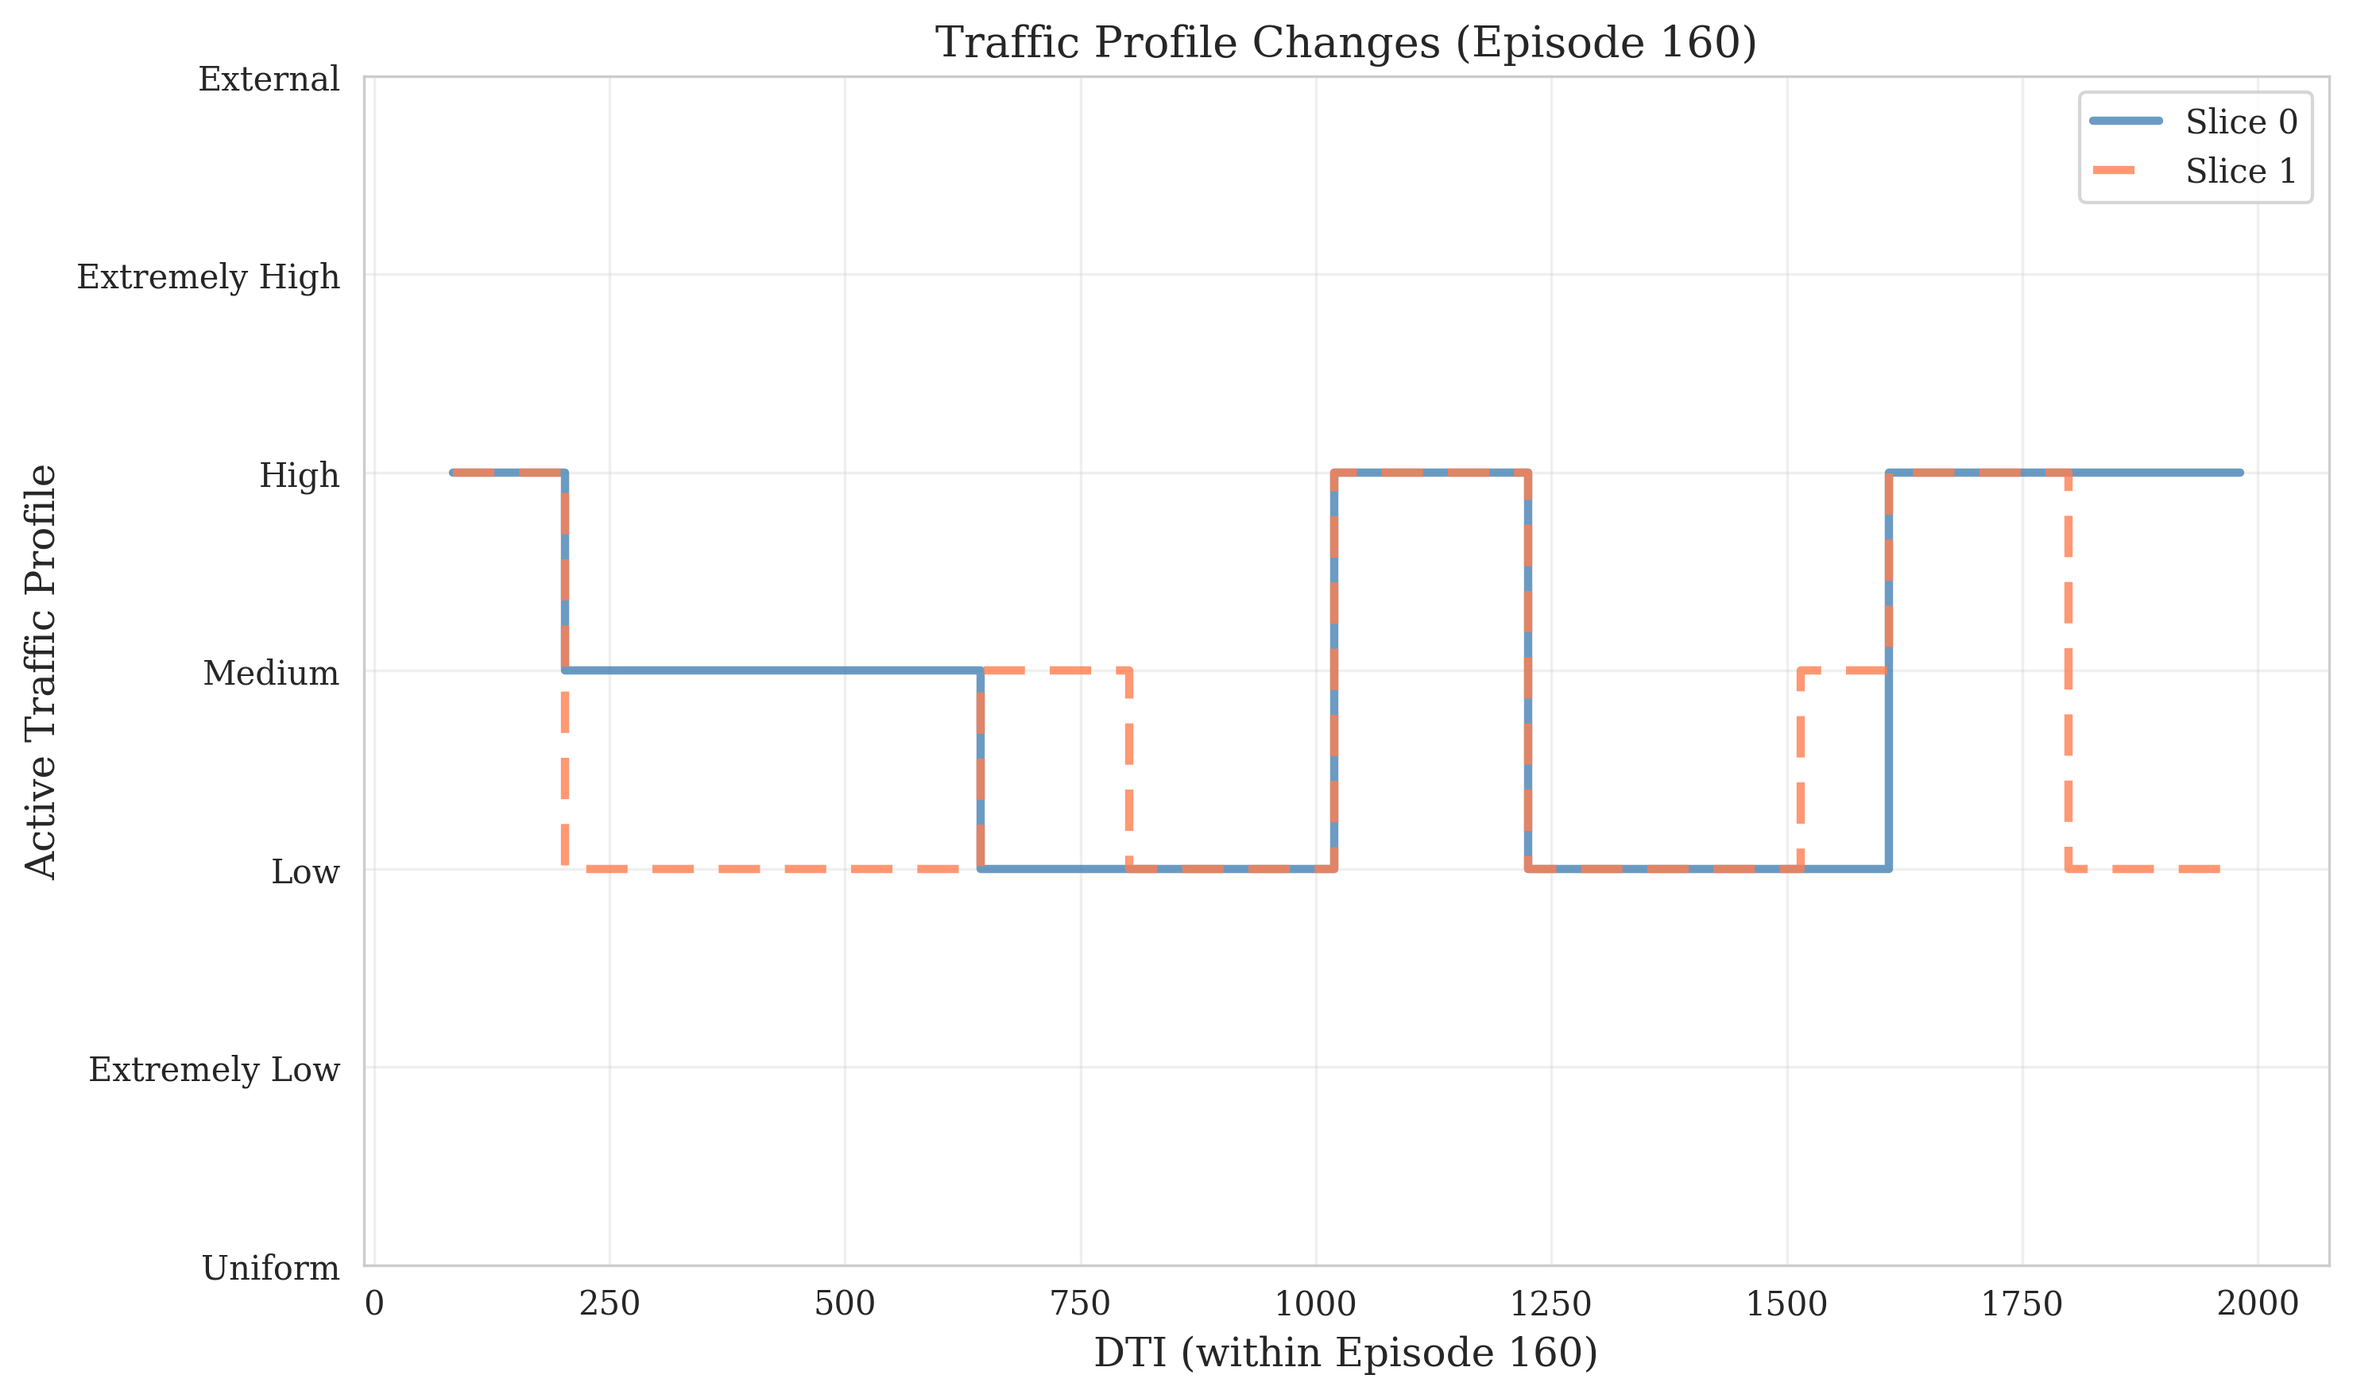
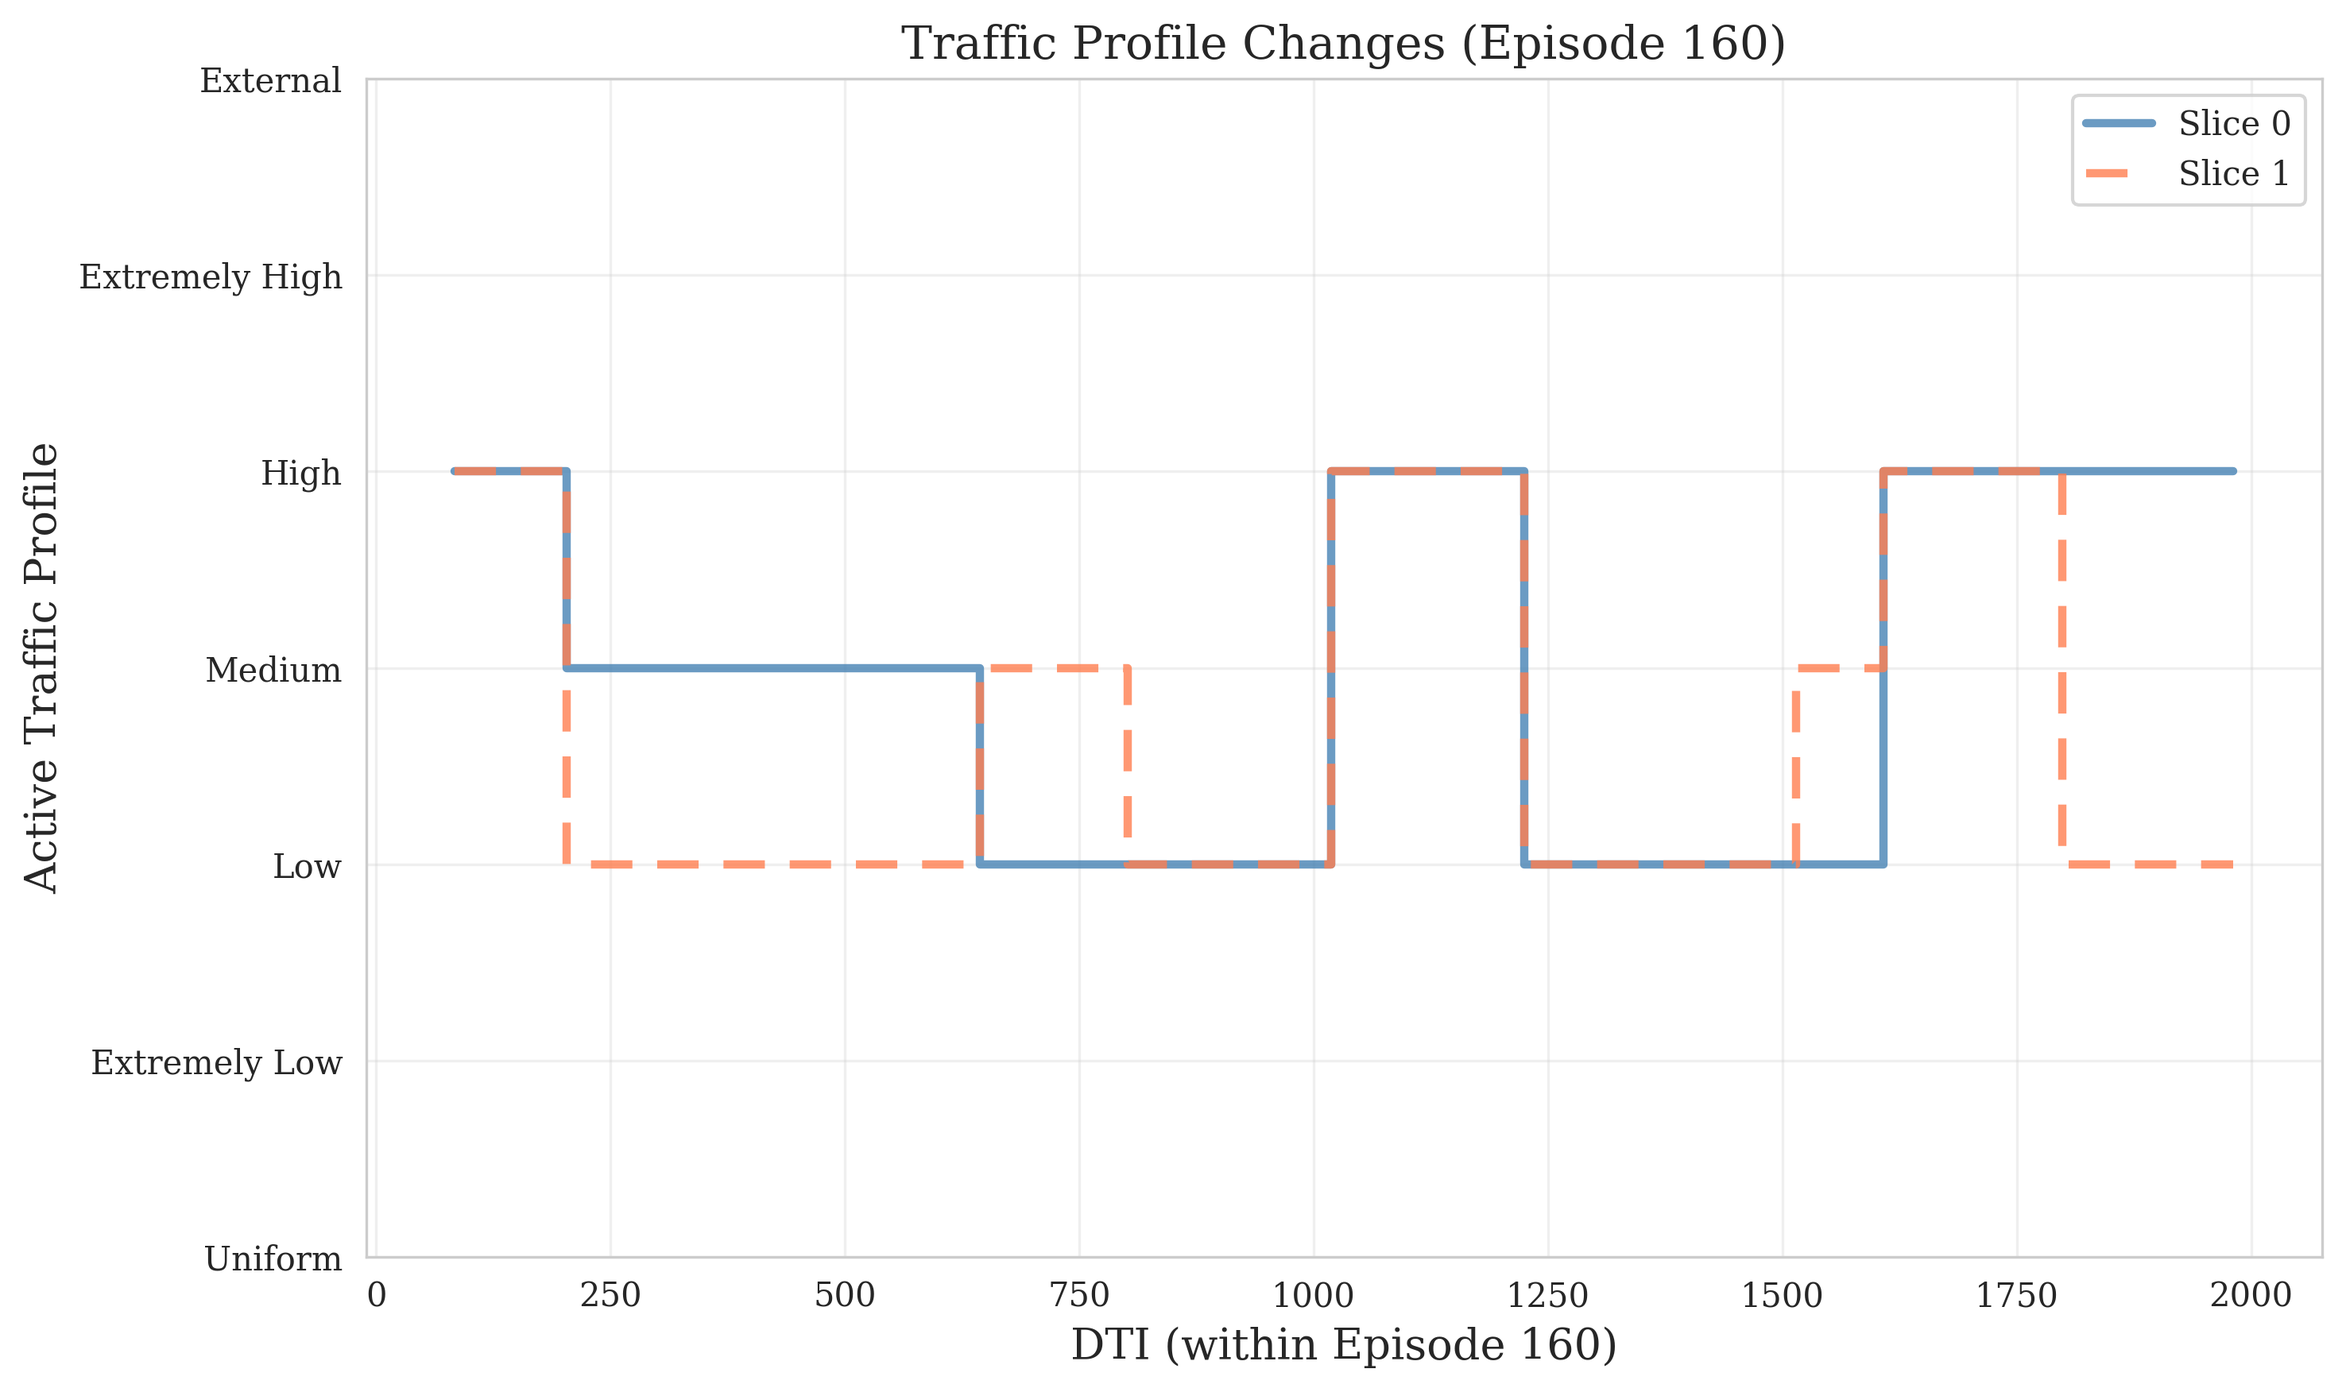
ver2.6

diff --git a/sac_agent_old.py b/sac_agent_old.py
@@ -1,8 +1,6 @@
 """
 SAC Implementation for Multi-Slice Resource Allocation - Implements Algorithm 2
 Soft Actor-Critic with constrained action space using softmax parameterization
-
-UPDATED: Added proper entropy regularization and automatic temperature tuning
 """
 
 import numpy as np
@@ -86,23 +84,6 @@ class Actor(nn.Module):
         action = self.capacity * F.softmax(z, dim=-1)
         
         return action
-    
-    def forward_with_logits(self, state):
-        """
-        Forward pass returning both action and logits.
-        Used for entropy computation.
-        
-        Returns:
-            action: [a_1, ..., a_K] where Σa_k = C
-            logits: [z_1, ..., z_K] raw logits before softmax
-        """
-        x = self.shared(state)
-        z = self.logits(x)  # Logits ∈ R^K
-        
-        # Apply softmax and scale by capacity
-        action = self.capacity * F.softmax(z, dim=-1)
-        
-        return action, z
     
     def sample_action(self, state):
         """Sample action for training (adds exploration noise)"""
@@ -232,7 +213,7 @@ class SAC:
         self.critic1_optimizer = optim.Adam(self.critic1.parameters(), lr=lr_critic)
         self.critic2_optimizer = optim.Adam(self.critic2.parameters(), lr=lr_critic)
         
-        # Temperature (entropy regularization) - NOW PROPERLY USED
+        # Temperature (entropy regularization)
         self.log_alpha = torch.tensor(np.log(alpha), dtype=torch.float32,
                                      requires_grad=True, device=self.device)
         self.alpha_optimizer = optim.Adam([self.log_alpha], lr=lr_alpha)
@@ -342,57 +323,30 @@ class SAC:
         critic2_loss.backward()
         self.critic2_optimizer.step()
         
-        # ============ Update Actor (WITH ENTROPY) ============
-        # Get new actions AND logits for entropy computation
-        new_actor_output_full = self.actor.forward_with_logits(states)
+        # ============ Update Actor ============
+        # Sample new actions from current policy
+        new_actor_output = self.actor(states)  # Shape: (batch, K) or (batch, K+1)
         
         if self.use_efficient_allocation:
-            # Unpack: (action, logits) where action is (batch, K+1)
-            new_actor_output, logits = new_actor_output_full
             # Extract first K actions for critics
             new_actions = new_actor_output[:, :self.num_slices]
         else:
-            # Unpack: (action, logits) where action is (batch, K)
-            new_actions, logits = new_actor_output_full
+            # Standard mode
+            new_actions = new_actor_output
         
         # Compute Q-values
         q1_new = self.critic1(states, new_actions)
         q2_new = self.critic2(states, new_actions)
         q_new = torch.min(q1_new, q2_new)
         
-        # Compute entropy of softmax distribution
-        # H(π) = -Σ p_i log(p_i) where p = softmax(z)
-        probs = F.softmax(logits, dim=-1)
-        log_probs = F.log_softmax(logits, dim=-1)
-        entropy = -(probs * log_probs).sum(dim=-1, keepdim=True)
-        
-        # Actor loss: maximize Q + α·H(π)
-        # Equivalently: minimize -(Q + α·H)
-        actor_loss = -(q_new + self.alpha * entropy).mean()
+        # Actor loss: maximize Q
+        # (negative because we're minimizing)
+        actor_loss = -q_new.mean()
         
         # Update actor
         self.actor_optimizer.zero_grad()
         actor_loss.backward()
         self.actor_optimizer.step()
-        
-        # ============ Update Temperature (Alpha) ============
-        # Automatic temperature tuning
-        with torch.no_grad():
-            # Recompute entropy for alpha update (detach from actor graph)
-            if self.use_efficient_allocation:
-                _, logits_detached = self.actor.forward_with_logits(states)
-            else:
-                _, logits_detached = self.actor.forward_with_logits(states)
-            
-            probs_detached = F.softmax(logits_detached, dim=-1)
-            log_probs_detached = F.log_softmax(logits_detached, dim=-1)
-            entropy_detached = -(probs_detached * log_probs_detached).sum(dim=-1, keepdim=True)
-        
-        alpha_loss = -(self.log_alpha * (entropy_detached + self.target_entropy)).mean()
-        
-        self.alpha_optimizer.zero_grad()
-        alpha_loss.backward()
-        self.alpha_optimizer.step()
         
         # ============ Soft Update Targets ============
         self._soft_update(self.critic1, self.critic1_target)
@@ -405,9 +359,6 @@ class SAC:
             'critic2_loss': critic2_loss.item(),
             'actor_loss': actor_loss.item(),
             'alpha': self.alpha,
-            'alpha_loss': alpha_loss.item(),
-            'entropy': entropy.mean().item(),
-            'target_entropy': self.target_entropy,
             'q_value': q_new.mean().item(),
         }
     

diff --git a/network_env_multi_metric.py b/network_env_multi_metric.py
@@ -412,6 +412,62 @@ class NetworkEnvironment:
         state = self._build_state(beta, cdfs, transport_utilization, transport_delays)
         return state
     
+    def _allocate_resources(self, action: np.ndarray) -> np.ndarray:
+        """
+        Allocate discrete resources ensuring sum exactly equals capacity C.
+        
+        Uses Floor + Remainder Distribution:
+        1. Floor all continuous actions
+        2. Calculate remaining capacity  
+        3. Distribute remainder to slices with largest fractional parts
+        
+        Guarantees: sum(allocated) = C for any K
+        
+        Args:
+            action: Continuous action [a_1, ..., a_K] where sum(action) ≈ C
+                    (from softmax: action = C * softmax(z))
+        
+        Returns:
+            allocated: Integer allocation [r_1, ..., r_K] where sum = C exactly
+        
+        Example:
+            action = [4.7, 3.3]  # K=2, C=8
+            floor = [4, 3]       # sum = 7
+            remainder = 1
+            fractional = [0.7, 0.3]  # Slice 0 has larger fractional
+            → Give remainder to slice 0
+            → result = [5, 3] (sum = 8) ✓
+        """
+        # Step 1: Floor all allocations
+        allocated = np.floor(action).astype(int)
+        
+        # Step 2: Calculate remainder
+        remainder = self.C - np.sum(allocated)
+        
+        # Sanity check
+        assert 0 <= remainder <= self.K, \
+            f"Invalid remainder {remainder}. Action sum: {np.sum(action):.6f}, C: {self.C}"
+        
+        # Step 3: Distribute remainder to slices with largest fractional parts
+        if remainder > 0:
+            # Calculate fractional parts
+            fractional = action - allocated
+            
+            # Get indices sorted by fractional part (descending order)
+            indices_sorted = np.argsort(-fractional)
+            
+            # Give 1 RB to the top 'remainder' slices
+            for i in range(remainder):
+                allocated[indices_sorted[i]] += 1
+        
+        # Step 4: Final verification
+        final_sum = np.sum(allocated)
+        assert final_sum == self.C, \
+            f"Allocation failed! Sum={final_sum}, C={self.C}, allocated={allocated}"
+        
+        return allocated
+
+
     def step(self, action: np.ndarray) -> Tuple[np.ndarray, float, bool, dict]:
         """
         Algorithm 1: Step(a) function
@@ -444,8 +500,11 @@ class NetworkEnvironment:
             self.X[k].extend(x_k)
         
         # Step 2: Compute QoS using rounded actions (MULTI-METRIC SUPPORT)
-        r_used = np.round(action).astype(int)
+        #r_used = np.round(action).astype(int)
         
+        # Step 2: Compute QoS using floor+remainder allocation (MULTI-METRIC SUPPORT)
+        r_used = self._allocate_resources(action)
+
         for k in range(self.K):
             #rbs = int(np.clip(r_used[k], 1, self.C))
             rbs = int(np.clip(r_used[k], 1, 8)) #Jubran

diff --git a/paper_figures/summary_table.tex b/paper_figures/summary_table.tex
@@ -6,15 +6,15 @@
 \toprule
 \textbf{Scenario} & \textbf{QoS Violation (β)} & \textbf{Episode Reward} \\
 \midrule
-Extremely_Low - Extremely_Low & 0.010 $\pm$ 0.001 & -20.00 $\pm$ 2.78 \\
-Low - Low & 0.026 $\pm$ 0.005 & -51.65 $\pm$ 9.71 \\
-Medium - Medium & 0.194 $\pm$ 0.006 & -388.08 $\pm$ 12.59 \\
-High - High & 0.356 $\pm$ 0.010 & -711.43 $\pm$ 20.81 \\
-Extremely_High - Extremely_High & 0.400 $\pm$ 0.014 & -800.43 $\pm$ 27.52 \\
-Low - High & 0.140 $\pm$ 0.003 & -280.32 $\pm$ 6.67 \\
-Extremely_Low - Extremely_High & 0.107 $\pm$ 0.001 & -213.30 $\pm$ 2.27 \\
-Medium - High & 0.259 $\pm$ 0.007 & -518.53 $\pm$ 14.96 \\
-Dynamic - Dynamic & 0.184 $\pm$ 0.034 & -368.08 $\pm$ 68.16 \\
+Extremely_Low - Extremely_Low & 0.010 $\pm$ 0.001 & -19.70 $\pm$ 2.36 \\
+Low - Low & 0.025 $\pm$ 0.003 & -49.65 $\pm$ 5.21 \\
+Medium - Medium & 0.196 $\pm$ 0.006 & -391.47 $\pm$ 11.63 \\
+High - High & 0.358 $\pm$ 0.012 & -715.07 $\pm$ 23.97 \\
+Extremely_High - Extremely_High & 0.403 $\pm$ 0.014 & -805.84 $\pm$ 27.69 \\
+Low - High & 0.144 $\pm$ 0.008 & -287.23 $\pm$ 16.69 \\
+Extremely_Low - Extremely_High & 0.108 $\pm$ 0.002 & -216.41 $\pm$ 3.59 \\
+Medium - High & 0.261 $\pm$ 0.009 & -521.60 $\pm$ 18.43 \\
+Dynamic - Dynamic & 0.182 $\pm$ 0.033 & -363.39 $\pm$ 65.89 \\
 \bottomrule
 \end{tabular}
 \end{table*}

diff --git a/paper_figures/table_static_homogeneous.tex b/paper_figures/table_static_homogeneous.tex
@@ -6,11 +6,11 @@
 \toprule
 \textbf{Profile} & \textbf{SAC} & \textbf{Equal} & \textbf{Proportional} & \textbf{Greedy} & \textbf{Random} \\
 \midrule
-Extremely Low & 0.0100 $\pm$ 0.0014 & 0.0095 $\pm$ 0.0009 & 0.0214 $\pm$ 0.0015 & 0.1410 $\pm$ 0.0021 & 0.0996 $\pm$ 0.0027 \\
-Low & 0.0258 $\pm$ 0.0049 & 0.0242 $\pm$ 0.0014 & 0.0381 $\pm$ 0.0016 & 0.1050 $\pm$ 0.0021 & 0.1480 $\pm$ 0.0037 \\
-Medium & 0.1940 $\pm$ 0.0063 & 0.1900 $\pm$ 0.0028 & 0.2005 $\pm$ 0.0026 & 0.2034 $\pm$ 0.0028 & 0.2773 $\pm$ 0.0030 \\
-High & 0.3557 $\pm$ 0.0104 & 0.3542 $\pm$ 0.0025 & 0.3533 $\pm$ 0.0025 & 0.3541 $\pm$ 0.0031 & 0.3713 $\pm$ 0.0025 \\
-Extremely High & 0.4002 $\pm$ 0.0138 & 0.4833 $\pm$ 0.0028 & 0.4831 $\pm$ 0.0025 & 0.4760 $\pm$ 0.0030 & 0.4383 $\pm$ 0.0025 \\
+Extremely Low & 0.0098 $\pm$ 0.0012 & N/A & N/A & N/A & N/A \\
+Low & 0.0248 $\pm$ 0.0026 & N/A & N/A & N/A & N/A \\
+Medium & 0.1957 $\pm$ 0.0058 & N/A & N/A & N/A & N/A \\
+High & 0.3575 $\pm$ 0.0120 & N/A & N/A & N/A & N/A \\
+Extremely High & 0.4029 $\pm$ 0.0138 & N/A & N/A & N/A & N/A \\
 \bottomrule
 \end{tabular}
 \end{table}

diff --git a/paper_figures_NoEntropy/table_static_homogeneous.tex b/paper_figures_NoEntropy/table_static_homogeneous.tex
@@ -1,0 +1,16 @@
+\begin{table}[!t]
+\centering
+\caption{QoS Performance Across Static Homogeneous Traffic Profiles (Last 100 Episodes)}
+\label{tab:static_homogeneous_comparison}
+\begin{tabular}{lccccc}
+\toprule
+\textbf{Profile} & \textbf{SAC} & \textbf{Equal} & \textbf{Proportional} & \textbf{Greedy} & \textbf{Random} \\
+\midrule
+Extremely Low & 0.0100 $\pm$ 0.0014 & 0.0095 $\pm$ 0.0009 & 0.0214 $\pm$ 0.0015 & 0.1410 $\pm$ 0.0021 & 0.0996 $\pm$ 0.0027 \\
+Low & 0.0258 $\pm$ 0.0049 & 0.0242 $\pm$ 0.0014 & 0.0381 $\pm$ 0.0016 & 0.1050 $\pm$ 0.0021 & 0.1480 $\pm$ 0.0037 \\
+Medium & 0.1940 $\pm$ 0.0063 & 0.1900 $\pm$ 0.0028 & 0.2005 $\pm$ 0.0026 & 0.2034 $\pm$ 0.0028 & 0.2773 $\pm$ 0.0030 \\
+High & 0.3557 $\pm$ 0.0104 & 0.3542 $\pm$ 0.0025 & 0.3533 $\pm$ 0.0025 & 0.3541 $\pm$ 0.0031 & 0.3713 $\pm$ 0.0025 \\
+Extremely High & 0.4002 $\pm$ 0.0138 & 0.4833 $\pm$ 0.0028 & 0.4831 $\pm$ 0.0025 & 0.4760 $\pm$ 0.0030 & 0.4383 $\pm$ 0.0025 \\
+\bottomrule
+\end{tabular}
+\end{table}

diff --git a/paper_figures_NoEntropy/summary_table.tex b/paper_figures_NoEntropy/summary_table.tex
@@ -1,0 +1,20 @@
+\begin{table*}[!t]
+\caption{Performance Summary Across Traffic Scenarios (Last 100 Episodes)}
+\label{tab:performance_summary}
+\centering
+\begin{tabular}{@{}lcc@{}}
+\toprule
+\textbf{Scenario} & \textbf{QoS Violation (β)} & \textbf{Episode Reward} \\
+\midrule
+Extremely_Low - Extremely_Low & 0.010 $\pm$ 0.001 & -20.00 $\pm$ 2.78 \\
+Low - Low & 0.026 $\pm$ 0.005 & -51.65 $\pm$ 9.71 \\
+Medium - Medium & 0.194 $\pm$ 0.006 & -388.08 $\pm$ 12.59 \\
+High - High & 0.356 $\pm$ 0.010 & -711.43 $\pm$ 20.81 \\
+Extremely_High - Extremely_High & 0.400 $\pm$ 0.014 & -800.43 $\pm$ 27.52 \\
+Low - High & 0.140 $\pm$ 0.003 & -280.32 $\pm$ 6.67 \\
+Extremely_Low - Extremely_High & 0.107 $\pm$ 0.001 & -213.30 $\pm$ 2.27 \\
+Medium - High & 0.259 $\pm$ 0.007 & -518.53 $\pm$ 14.96 \\
+Dynamic - Dynamic & 0.184 $\pm$ 0.034 & -368.08 $\pm$ 68.16 \\
+\bottomrule
+\end{tabular}
+\end{table*}

diff --git a/paper_figures/table_heterogeneous.tex b/paper_figures/table_heterogeneous.tex
@@ -6,9 +6,9 @@
 \toprule
 \textbf{Scenario} & \textbf{SAC} & \textbf{Equal} & \textbf{Proportional} & \textbf{Greedy} & \textbf{Random} \\
 \midrule
-Low - High & 0.1402 $\pm$ 0.0033 & 0.2705 $\pm$ 0.0027 & 0.1410 $\pm$ 0.0020 & 0.1419 $\pm$ 0.0023 & 0.3075 $\pm$ 0.0038 \\
-Extremely_Low - Extremely_High & 0.1067 $\pm$ 0.0011 & 0.4037 $\pm$ 0.0034 & 0.1117 $\pm$ 0.0017 & 0.1154 $\pm$ 0.0022 & 0.3758 $\pm$ 0.0059 \\
-Medium - High & 0.2593 $\pm$ 0.0075 & 0.2898 $\pm$ 0.0028 & 0.2651 $\pm$ 0.0028 & 0.2684 $\pm$ 0.0026 & 0.3330 $\pm$ 0.0026 \\
+Low - High & 0.1436 $\pm$ 0.0083 & N/A & N/A & N/A & N/A \\
+Extremely_Low - Extremely_High & 0.1082 $\pm$ 0.0018 & N/A & N/A & N/A & N/A \\
+Medium - High & 0.2608 $\pm$ 0.0092 & N/A & N/A & N/A & N/A \\
 \bottomrule
 \end{tabular}
 \end{table}

diff --git a/paper_figures_NoEntropy/table_heterogeneous.tex b/paper_figures_NoEntropy/table_heterogeneous.tex
@@ -1,0 +1,14 @@
+\begin{table}[!t]
+\centering
+\caption{QoS Performance Under Heterogeneous Traffic Scenarios (Last 100 Episodes)}
+\label{tab:heterogeneous_comparison}
+\begin{tabular}{lccccc}
+\toprule
+\textbf{Scenario} & \textbf{SAC} & \textbf{Equal} & \textbf{Proportional} & \textbf{Greedy} & \textbf{Random} \\
+\midrule
+Low - High & 0.1402 $\pm$ 0.0033 & 0.2705 $\pm$ 0.0027 & 0.1410 $\pm$ 0.0020 & 0.1419 $\pm$ 0.0023 & 0.3075 $\pm$ 0.0038 \\
+Extremely_Low - Extremely_High & 0.1067 $\pm$ 0.0011 & 0.4037 $\pm$ 0.0034 & 0.1117 $\pm$ 0.0017 & 0.1154 $\pm$ 0.0022 & 0.3758 $\pm$ 0.0059 \\
+Medium - High & 0.2593 $\pm$ 0.0075 & 0.2898 $\pm$ 0.0028 & 0.2651 $\pm$ 0.0028 & 0.2684 $\pm$ 0.0026 & 0.3330 $\pm$ 0.0026 \\
+\bottomrule
+\end{tabular}
+\end{table}

diff --git a/step2_generate_figures.py b/step2_generate_figures.py
@@ -29,10 +29,10 @@ FIGURE_FORMAT = 'png'
 sns.set_style("whitegrid")
 plt.rcParams.update({
     'figure.dpi': FIGURE_DPI,
-    'font.size': 11,
+    'font.size': 12,
     'font.family': 'serif',
-    'axes.labelsize': 12,
-    'axes.titlesize': 13,
+    'axes.labelsize': 13,
+    'axes.titlesize': 14,
     'xtick.labelsize': 10,
     'ytick.labelsize': 10,
     'legend.fontsize': 10,
